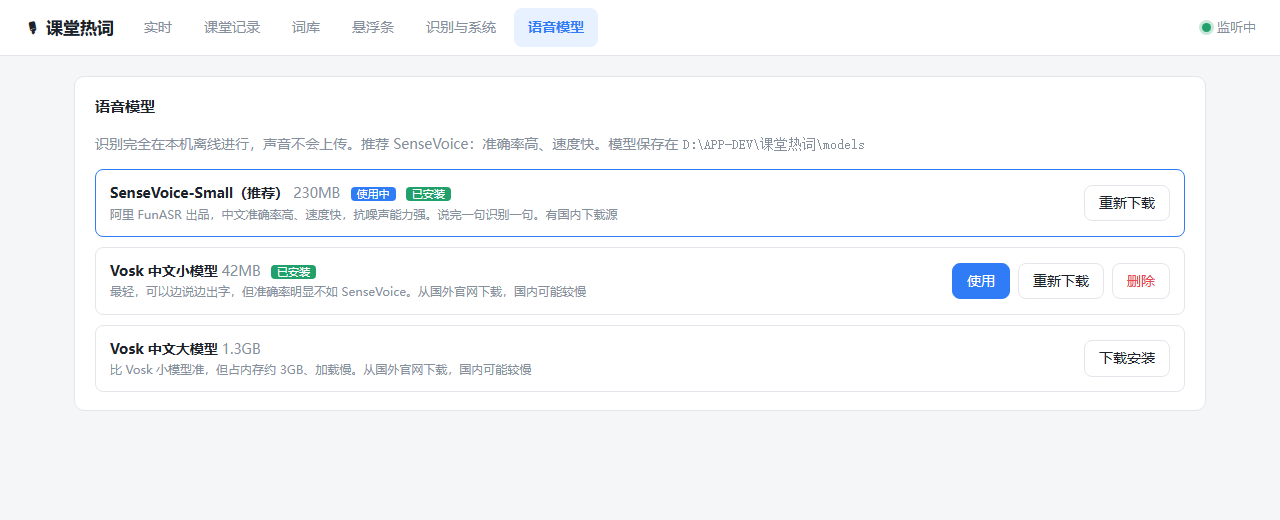
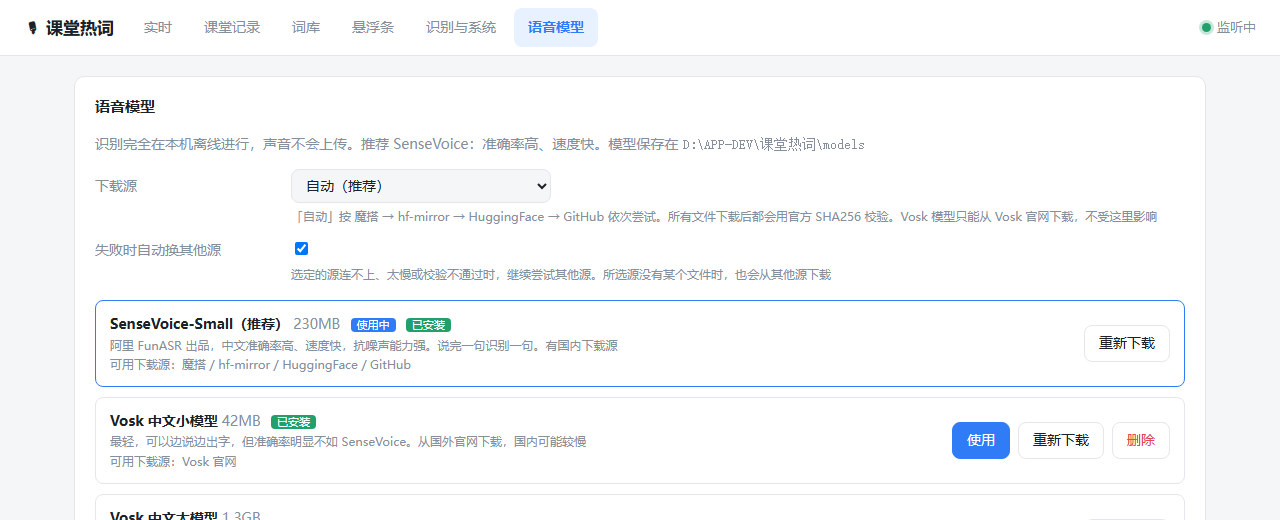
模型下载可选择下载源
- 「语音模型」页可选下载源：自动 / 魔搭 ModelScope / hf-mirror / HuggingFace
- 可设置选定的源失败时是否自动换其他源；所选源没有某个文件时自动从其他源补齐
- 每个模型显示可用的下载源，下载进度显示当前来源
- 新增 tools/test_download_sources.py，对每个下载源做完整下载测试

diff --git a/web/index.html b/web/index.html
@@ -235,6 +235,7 @@ svg.tl{width:100%;height:120px}
   <div class="card">
     <h2>语音模型</h2>
     <p class="muted">识别完全在本机离线进行，声音不会上传。推荐 SenseVoice：准确率高、速度快。模型保存在 <code id="modelDir"></code></p>
+    <div class="form" id="formDownload" style="margin:4px 0 16px"></div>
     <div id="modelList" class="grid" style="gap:10px"></div>
     <div id="dl" style="display:none;margin-top:12px">
       <div id="dlMsg"></div>
@@ -449,6 +450,15 @@ const FIELDS = {
     ["min_count", "至少出现几次才显示", "number", {min: 1, max: 100}],
     ["min_word_len", "最短词长（字）", "number", {min: 1, max: 6, hint: "设为 1 会把单字也算进去，通常保持 2"}],
   ],
+  formDownload: [
+    ["download_source", "下载源", "select", {options: [
+      ["auto", "自动（推荐）"],
+      ["modelscope", "魔搭 ModelScope（国内）"],
+      ["hf-mirror", "hf-mirror（国内镜像）"],
+      ["huggingface", "HuggingFace（国外）"]],
+      hint: "「自动」按 魔搭 → hf-mirror → HuggingFace → GitHub 依次尝试。所有文件下载后都会用官方 SHA256 校验。Vosk 模型只能从 Vosk 官网下载，不受这里影响"}],
+    ["download_fallback", "失败时自动换其他源", "bool", {hint: "选定的源连不上、太慢或校验不通过时，继续尝试其他源。所选源没有某个文件时，也会从其他源下载"}],
+  ],
   formSystem: [
     ["hotkey", "显示/隐藏悬浮条热键", "text", {hint: "例如 Ctrl+Alt+H、Ctrl+Shift+F9"}],
     ["autostart", "开机自动启动", "bool"],
@@ -515,6 +525,7 @@ $("#btnReset").onclick = async () => {
 async function loadDevices() { DEVICES = await api("devices"); renderForms(); }
 
 // ---------- 模型 ----------
+const SOURCE_NAMES = {modelscope: "魔搭", "hf-mirror": "hf-mirror", huggingface: "HuggingFace", github: "GitHub", vosk: "Vosk 官网"};
 async function loadModels() {
   const m = await api("models");
   $("#modelDir").textContent = m.dir;
@@ -525,6 +536,7 @@ async function loadModels() {
           ${x.active ? '<span class="badge" style="background:var(--primary)">使用中</span>' : ""}
           ${x.installed ? '<span class="badge">已安装</span>' : ""}</div>
         <div class="muted" style="font-size:12px">${esc(x.desc)}</div>
+        <div class="muted" style="font-size:12px">可用下载源：${x.sources.map(s => SOURCE_NAMES[s] || s).join(" / ")}</div>
       </div>
       <div class="row">
         ${x.installed && !x.active ? `<button class="btn primary" data-use="${x.key}">使用</button>` : ""}

diff --git a/app/engine.py b/app/engine.py
@@ -74,6 +74,33 @@ MODELS = {
         "downloads": [{"urls": ["https://alphacephei.com/vosk/models/vosk-model-cn-0.22.zip"]}],
     },
 }
+# 管理页可选的下载源；GitHub 和 Vosk 官网不单独提供选择，只作为兜底
+SOURCES = {
+    "auto": "自动（按 魔搭 → hf-mirror → HuggingFace → GitHub 依次尝试）",
+    "modelscope": "魔搭 ModelScope（国内）",
+    "hf-mirror": "hf-mirror（国内镜像）",
+    "huggingface": "HuggingFace（国外）",
+}
+_HOSTS = {"modelscope.cn": "modelscope", "hf-mirror.com": "hf-mirror", "huggingface.co": "huggingface",
+          "github.com": "github", "alphacephei.com": "vosk"}
+SOURCE_NAMES = {"modelscope": "魔搭", "hf-mirror": "hf-mirror", "huggingface": "HuggingFace",
+                "github": "GitHub", "vosk": "Vosk 官网"}
+
+
+def source_of(url):
+    return _HOSTS.get(urllib.parse.urlparse(url).hostname, "other")
+
+
+def order_urls(urls, pref, fallback):
+    """按用户选的下载源排序。选中的源没有这个文件时，退回到全部源。"""
+    if pref not in SOURCES or pref == "auto":
+        return urls
+    chosen = [u for u in urls if source_of(u) == pref]
+    if not chosen:
+        return urls
+    return chosen + ([u for u in urls if u not in chosen] if fallback else [])
+
+
 CONNECT_TIMEOUT = 30     # 秒：连不上或长时间收不到数据就换源
 STALL_SECONDS = 20       # 连续这么久平均速度低于 MIN_SPEED 就换源
 MIN_SPEED = 30 * 1024    # 字节/秒
@@ -132,6 +159,7 @@ class Engine:
     def models(self):
         active = self.cfg["asr_model"]
         return [dict(key=k, active=k == active, installed=self.model_ready(k), path=self.model_path(k),
+                     sources=list(dict.fromkeys(source_of(u) for it in m["downloads"] for u in it["urls"])),
                      **{f: m[f] for f in ("name", "engine", "size", "desc")})
                 for k, m in MODELS.items()]
 
@@ -301,12 +329,15 @@ class Engine:
             os.makedirs(work)
             items = info["downloads"]
             weights = [it.get("bytes", 1) for it in items]
+            pref, fallback = self.cfg["download_source"], self.cfg["download_fallback"]
             for i, item in enumerate(items):
                 fname = os.path.join(work, item.get("save") or item["urls"][0].rsplit("/", 1)[-1])
                 errors = []
-                for url in item["urls"]:
+                for url in order_urls(item["urls"], pref, fallback):
+                    src = source_of(url)
                     host = urllib.parse.urlparse(url).hostname
-                    d["message"] = f"下载中：{info['name']}（{i + 1}/{len(items)}，来源 {host}）"
+                    d["message"] = (f"下载中：{info['name']}（{i + 1}/{len(items)}，"
+                                    f"来源 {SOURCE_NAMES.get(src, host)}）")
 
                     def progress(frac):
                         d["progress"] = round((sum(weights[:i]) + frac * weights[i]) * 100 / sum(weights), 1)
@@ -314,9 +345,10 @@ class Engine:
                         self._fetch(url, fname, item.get("sha256"), progress)
                         break
                     except Exception as e:
-                        errors.append(f"{host}: {e}")
+                        errors.append(f"{SOURCE_NAMES.get(src, host)}: {e}")
                 else:
-                    raise RuntimeError("所有下载源都失败了 —— " + "；".join(errors))
+                    hint = "" if fallback or pref == "auto" else "（可以换一个下载源，或勾选「失败时自动换其他源」）"
+                    raise RuntimeError("下载源都失败了 —— " + "；".join(errors) + hint)
                 if fname.endswith((".zip", ".tar.bz2")):
                     d["message"] = "解压中…"
                     self._extract(fname, work)

diff --git a/tools/test_download_sources.py b/tools/test_download_sources.py
@@ -1,0 +1,45 @@
+"""对每个下载源各做一次完整的 SenseVoice 下载，确认能装好、文件校验通过，并打印每个文件的实际来源。
+
+用法：py -3.12 tools/test_download_sources.py [源 ...]   （默认 modelscope hf-mirror huggingface）
+每个源大约下载 240MB。
+"""
+import os
+import shutil
+import sys
+import tempfile
+import threading
+import time
+
+ROOT = os.path.dirname(os.path.dirname(os.path.abspath(__file__)))
+sys.path.insert(0, ROOT)
+from app import config  # noqa: E402
+
+tmp = tempfile.mkdtemp(prefix="classroom_dl_")
+config.DATA_DIR, config.CONFIG_PATH = tmp, os.path.join(tmp, "config.json")
+
+from app.engine import Engine  # noqa: E402
+from app.storage import Storage  # noqa: E402
+
+for source in sys.argv[1:] or ["modelscope", "hf-mirror", "huggingface"]:
+    cfg = config.Config()
+    models = os.path.join(tmp, "models-" + source)
+    cfg.update({"models_dir": models, "download_source": source, "download_fallback": False})
+    eng = Engine(cfg, Storage(os.path.join(tmp, source + ".db")))
+    seen = []
+
+    def watch():
+        while eng.download["state"] in ("idle", "running"):
+            m = eng.download["message"]
+            if "来源" in m and (not seen or seen[-1] != m):
+                seen.append(m)
+            time.sleep(0.1)
+    threading.Thread(target=watch, daemon=True).start()
+    t = time.time()
+    eng._download("sensevoice", None)
+    dt = time.time() - t
+    time.sleep(0.3)
+    ok = eng.model_ready("sensevoice")
+    print(f"[{source}] {'成功' if ok else '失败'}  {dt:.0f}s  {eng.download['message']}")
+    for m in seen:
+        print("    ", m.rsplit("（", 1)[1].rstrip("）"))
+    shutil.rmtree(models, ignore_errors=True)

diff --git a/app/config.py b/app/config.py
@@ -31,6 +31,8 @@ DEFAULTS = {
     "asr_model": "sensevoice",  # 见 engine.MODELS
     "models_dir": "",           # 空 = 程序目录下 models
     "language": "zh",           # SenseVoice 识别语言：zh / auto
+    "download_source": "auto",  # 模型下载源，见 engine.SOURCES
+    "download_fallback": True,  # 选定的源失败时自动换其他源
     "device": None,             # 麦克风编号，None = 系统默认
     "start_listening": True,    # 启动后自动开始监听
     # 热词

diff --git a/README.md b/README.md
@@ -118,7 +118,16 @@
 
 #### 下载源
 
-SenseVoice 的每个文件都配了多个下载源，按顺序自动尝试：**魔搭 ModelScope（国内）→ hf-mirror（国内）→ HuggingFace → GitHub**。某个源连不上、超过 20 秒速度低于 30KB/s，或文件校验不一致，就自动换下一个。
+在「语音模型」页顶部可以选择从哪里下载 SenseVoice：
+
+| 下载源 | 说明 |
+|---|---|
+| **自动**（默认） | 按 魔搭 → hf-mirror → HuggingFace → GitHub 依次尝试 |
+| 魔搭 ModelScope | 国内，速度快，不需要翻墙 |
+| hf-mirror | 国内的 HuggingFace 镜像 |
+| HuggingFace | 国外，适合在海外使用 |
+
+勾选「失败时自动换其他源」（默认勾选）后，选定的源连不上、超过 20 秒速度低于 30KB/s 或校验不通过时，会继续尝试其他源。取消勾选就只从选定的源下载。VAD 小文件（0.6MB）在 hf-mirror 和 HuggingFace 上没有官方版本，选这两个源时会自动改从魔搭或 GitHub 下载。
 
 魔搭上的文件是社区转存的，所以每个文件下载完都会用 k2-fsa 官方发布文件的 SHA256 校验，不一致就丢掉换源，不会装上被改过的文件。
 
@@ -172,6 +181,8 @@ Vosk 模型只能从 Vosk 官网（国外）下载，国内可能很慢。
 | `start_listening` | `true` | 启动后自动开始监听 |
 | `asr_model` | `sensevoice` | 使用的模型：`sensevoice` / `vosk-small` / `vosk-large` |
 | `language` | `zh` | SenseVoice 识别语言：`zh` 中文，`auto` 自动识别（中英粤日韩） |
+| `download_source` | `auto` | 模型下载源：`auto` / `modelscope` / `hf-mirror` / `huggingface` |
+| `download_fallback` | `true` | 选定的源失败时自动换其他源 |
 | `models_dir` | `""` | 模型存放目录，留空表示程序目录下的 `models\` |
 
 ### 热词规则
@@ -299,6 +310,7 @@ tools/
   screenshots.py 用演示数据生成 README 截图
   compare_asr.py 对比识别模型的准确率、速度、内存
   e2e_engine.py  用 wav 代替麦克风，端到端测试引擎
+  test_download_sources.py  对每个下载源做一次完整下载测试
   testdata/      测试音频与参考文本
 ```
 
